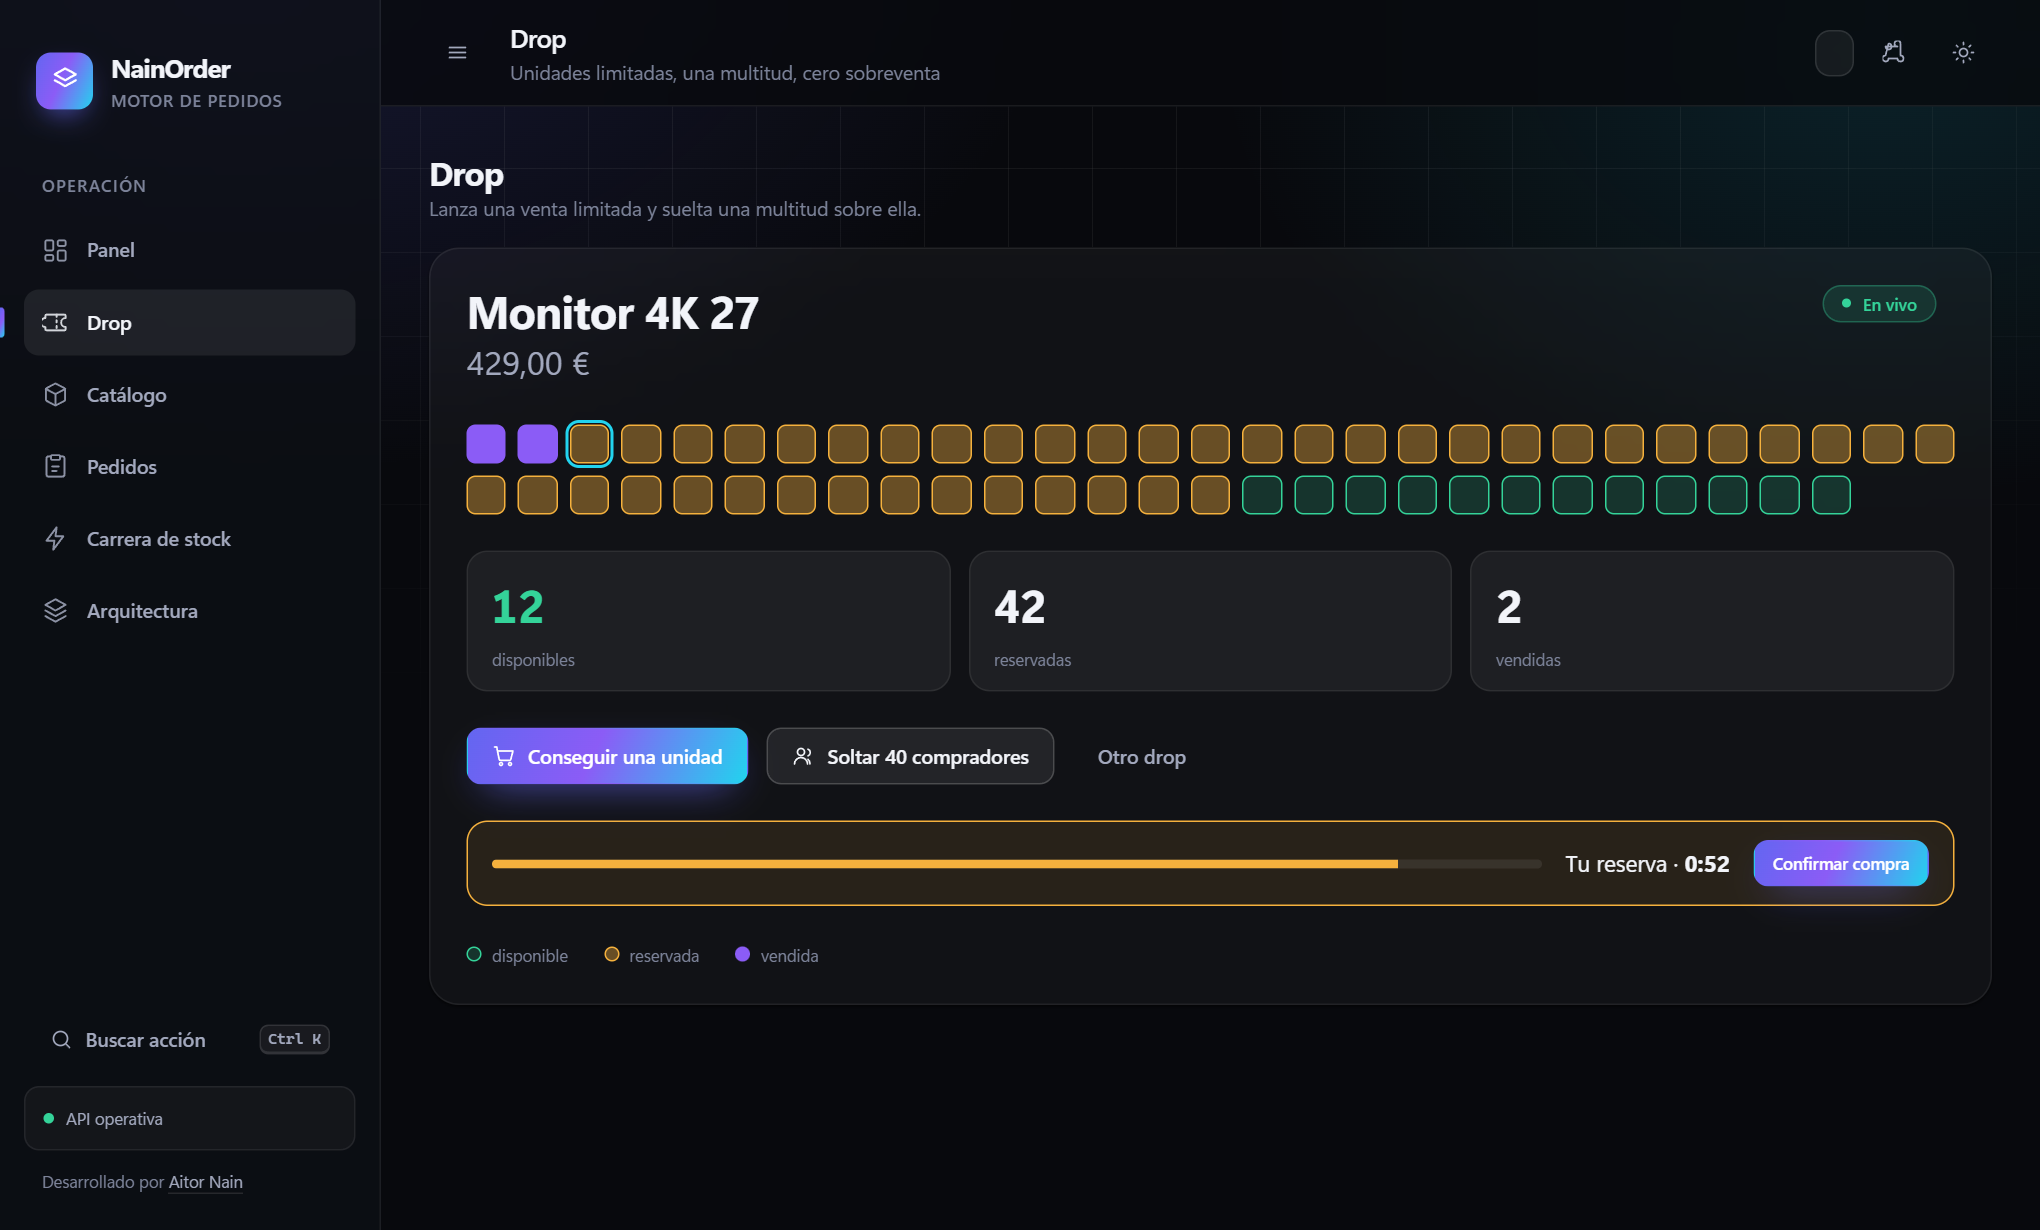
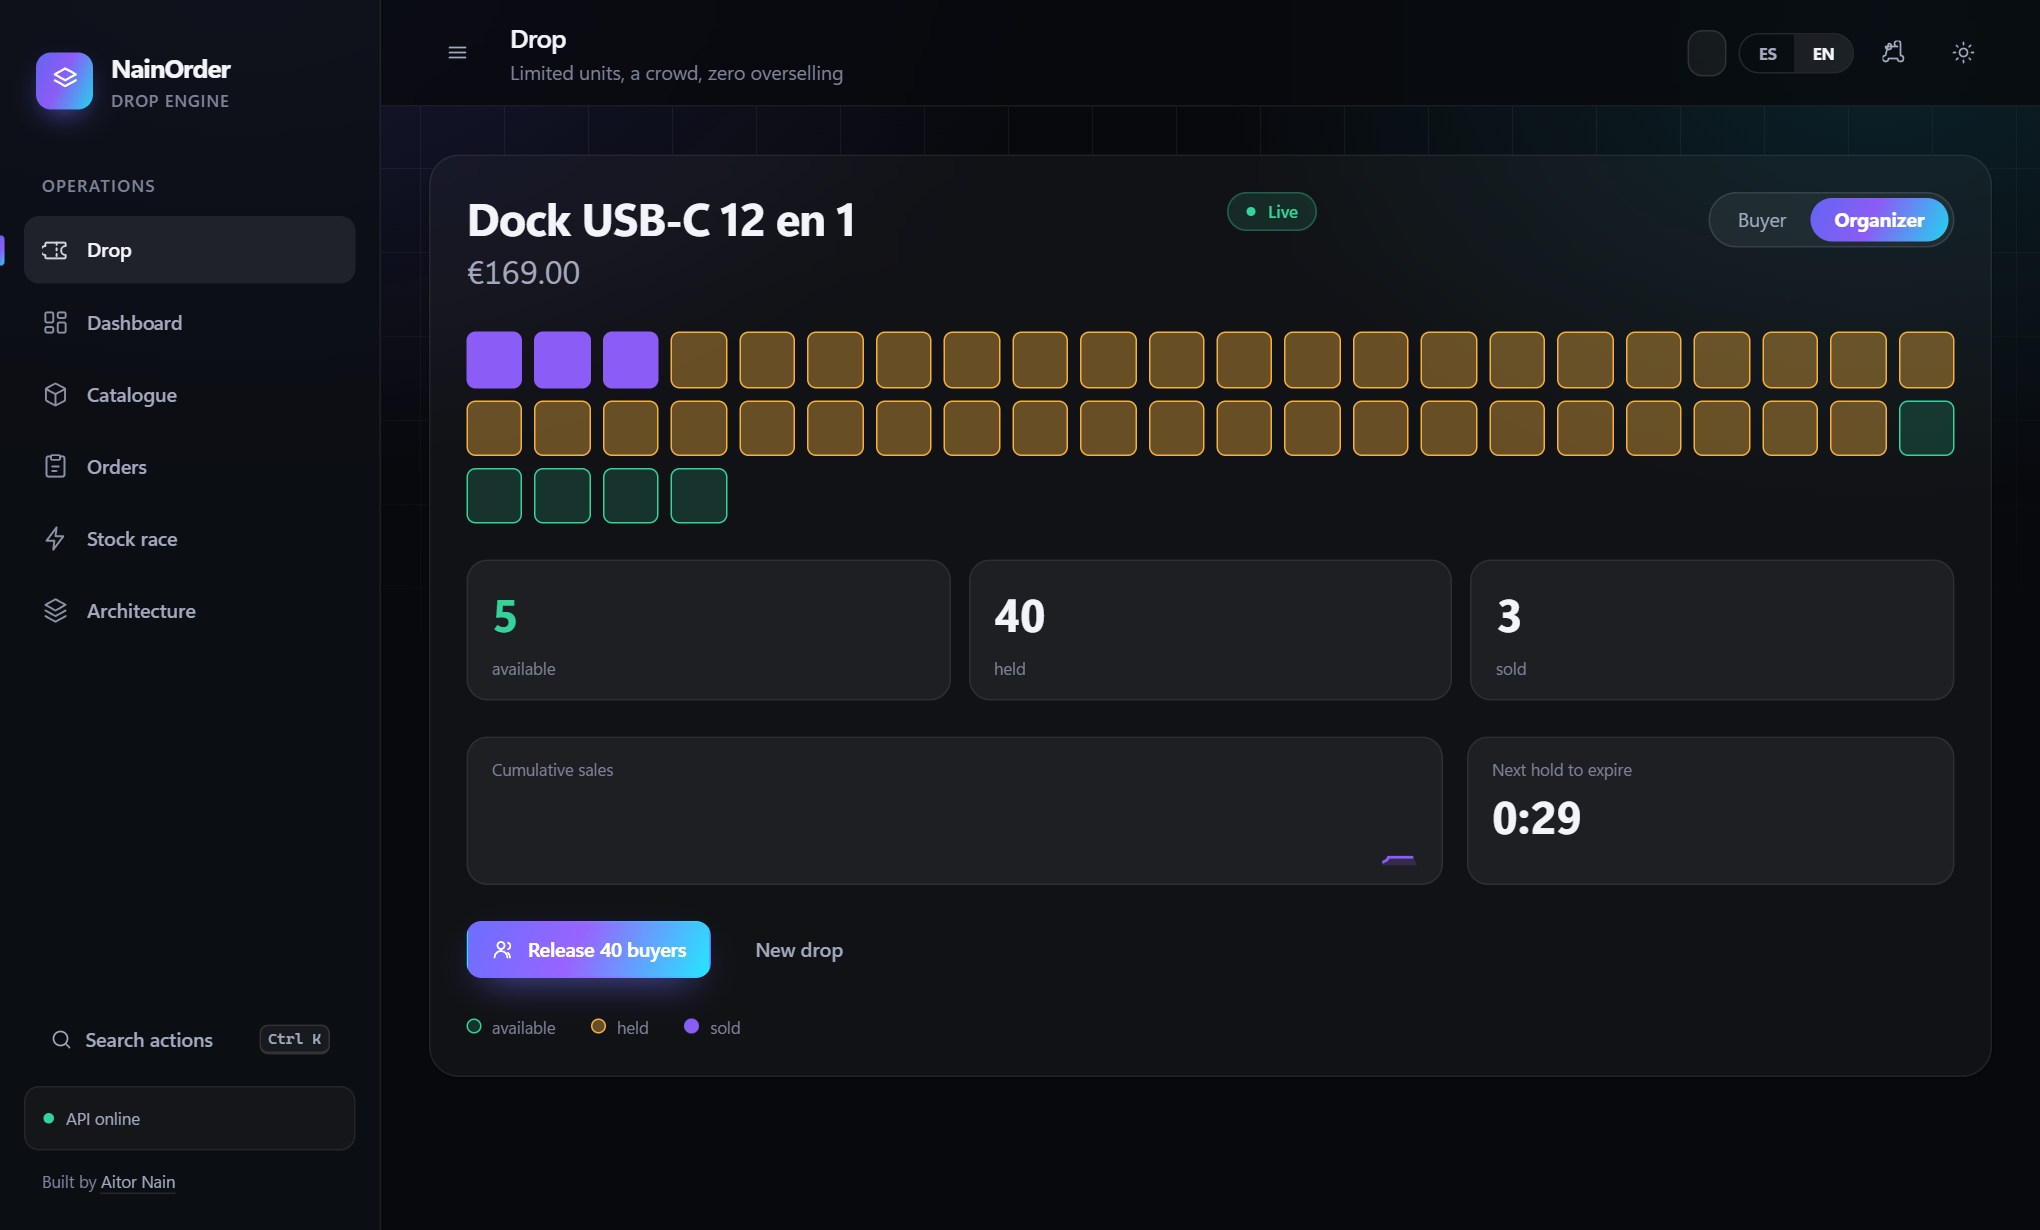
docs: add spec 003 and show the drop story in the README
Spec 003 (drop experience) records the owner's interview decisions and
its tasks. The charter now allows Spanish and English. README gains the
animated story, an organizer capture and English screenshots;
requirements, traceability and changelog cover REQ-095 and REQ-097 and
list the visual requirements as a known gap without browser tests.

diff --git a/docs/50-traceability.md b/docs/50-traceability.md
@@ -1,6 +1,6 @@
 # Traceability
 
-**Status:** Active · verified against a green run of `dotnet test NainOrder.slnx -c Release` (110/110 tests)
+**Status:** Active · verified against a green run of `dotnet test NainOrder.slnx -c Release` (116/116 tests)
 
 Every requirement in [10-requirements.md](10-requirements.md) and the test that demonstrates it.
 A requirement with no test is not done, whatever the code says.
@@ -17,6 +17,7 @@ Test suites:
 | `Api.OrderAggregateConcurrencyProbe` | Concurrency, aggregate | Multi-context concurrent aggregate mutations and optimistic concurrency conflict enforcement |
 | `Domain.DropTests` | Example-based + property-based | The drop aggregate with an explicit clock: holds, expiry, limits, the held-plus-sold invariant |
 | `Api.DropFlowTests` | Integration, concurrent | Drops over HTTP with a hand-moved clock, a 40-buyer crowd and UTC serialisation |
+| `Api.I18nParityTests` | Contract | Both panel languages define the same keys and placeholders |
 | `Api.StockRaceTests` | Integration, concurrent | The on-demand race: many buyers, few units, verdict from persisted stock |
 | `Api.GlobalExceptionHandlerTests` | Contract/Unit | RFC 7807 error translation and production 500 detail sanitization |
 
@@ -91,6 +92,13 @@ Test suites:
 | REQ-086 | `DropTests.An_unconfirmed_hold_returns_its_units_when_its_window_ends`; `DropFlowTests.An_unconfirmed_hold_expires_and_returns_its_units` |
 | REQ-088 | `DropTests.A_buyer_cannot_exceed_the_per_buyer_limit_across_holds`, `Expired_units_do_not_count_against_the_buyer_limit`; `DropFlowTests.A_buyer_over_the_limit_is_rejected_with_409` |
 
+## Drop experience
+
+| Requirement | Test |
+| :--- | :--- |
+| REQ-095 | `I18nParityTests.Spanish_and_English_define_exactly_the_same_keys`, `No_string_is_empty`, `Placeholders_match_between_languages` |
+| REQ-097 | `DropTests.The_next_expiry_is_the_soonest_live_hold_and_null_when_none_is_live`; `DropFlowTests.A_drop_reports_when_its_next_hold_expires` |
+
 ## HTTP contract
 
 | Requirement | Test |
@@ -112,4 +120,10 @@ Test suites:
 
 ## Gaps
 
-None. Every requirement declared in [10-requirements.md](10-requirements.md) is covered by an automated test passing in the Release suite.
+Every requirement declared in [10-requirements.md](10-requirements.md) is covered by an automated test passing in the Release suite.
+
+One known gap, deliberately outside that file: the visual behaviour of the panel in
+[specs/003-drop-experience](../specs/003-drop-experience/spec.md) (REQ-090 to REQ-094, REQ-096:
+landing story, role lenses, language selector, reduced motion). It was verified by hand in a browser
+against the real API and the in-browser engine, in both languages, with no console errors or missing
+translation keys; there is no browser-level test yet (task T-056).

diff --git a/specs/003-drop-experience/spec.md b/specs/003-drop-experience/spec.md
@@ -1,0 +1,40 @@
+# 003 — Drop experience
+
+**Status:** Approved direction by the owner (interview of 2026-10-20). Requirements below are drafts until each has its test.
+
+## Goal
+
+A shop owner or a recruiter opens the app and understands within ten seconds what it does and why it
+matters, without reading: the product explains itself through motion and the result.
+
+## Decisions taken in the interview
+
+| Question | Answer |
+| :--- | :--- |
+| Who must understand it fast | A shop owner or client (recruiters benefit too) |
+| First piece to build | An animated landing for the drop |
+| Roles a visitor can try | Both, one click apart: buyer and organizer |
+| Language of the public panel | ES and EN with a selector |
+
+## Requirements (EARS)
+
+- **REQ-090** — When the panel opens on the Drop view with no drop selected, the system shall play a short wordless story — a crowd arrives, units are held, an unconfirmed hold expires, units are sold — and offer one action per role.
+- **REQ-091** — Where the visitor chooses the buyer role, the panel shall show only what a buyer needs: the countdown, one action, and their own hold.
+- **REQ-092** — Where the visitor chooses the organizer role, the panel shall show the drop's units, the sales rhythm and the holds about to expire, and shall let the organizer release a simulated crowd.
+- **REQ-093** — The panel shall let the visitor switch between buyer and organizer on the same drop without losing it.
+- **REQ-094** — The panel shall offer Spanish and English, remember the choice, and default to the browser's language.
+- **REQ-095** — Every user-visible string shall exist in both languages: a string missing from one dictionary is a build failure.
+- **REQ-096** — Where the visitor prefers reduced motion, the landing story shall show its end state without animation.
+- **REQ-097** — The system shall report, with each drop, when its soonest live hold ends, or nothing when no hold is live. (Added during implementation: REQ-092's "holds about to expire" needs it from the server, since the panel must not compute it.)
+
+## Status of verification
+
+REQ-095 and REQ-097 have automated tests. REQ-090 to REQ-094 and REQ-096 are visual and were
+verified by hand in a browser (real API and in-browser engine, both languages); a browser-level
+test is task T-056.
+
+## Non-goals
+
+- Translating API error messages: they are machine-readable (`code`) and the panel maps the codes it needs.
+- Right-to-left languages.
+- A marketing site separate from the panel.

diff --git a/README.md b/README.md
@@ -11,16 +11,21 @@
 [![ci](https://github.com/Nain9Dev/NainOrder/actions/workflows/ci.yml/badge.svg)](https://github.com/Nain9Dev/NainOrder/actions/workflows/ci.yml)
 [![CodeQL](https://github.com/Nain9Dev/NainOrder/actions/workflows/codeql.yml/badge.svg)](https://github.com/Nain9Dev/NainOrder/actions/workflows/codeql.yml)
 ![.NET 10](https://img.shields.io/badge/.NET-10-512BD4)
-![Tests](https://img.shields.io/badge/tests-110%20passing-2ea44f)
+![Tests](https://img.shields.io/badge/tests-116%20passing-2ea44f)
 ![Client dependencies](https://img.shields.io/badge/client%20dependencies-0-22d3ee)
 [![Live demo](https://img.shields.io/badge/live%20demo-order.naindev.com-8b5cf6)](https://order.naindev.com/)
 
 <p align="center">
-  <img src="docs/assets/drop-live.png" alt="A live drop: 56 units, 2 sold, 42 held by a crowd of 40 buyers, 12 still available" width="92%">
+  <img src="docs/assets/drop-story.gif" alt="Animation: a crowd arrives, each unit is held, unconfirmed holds return, everything sells once" width="72%">
 </p>
 
-> **56 units. 40 buyers released at once.** Each unit is *available*, *held* for 60 seconds, or *sold*.
-> Hold it and don't confirm: it goes back to the crowd. Press **Soltar 40 compradores** and watch.
+<p align="center">
+  <img src="docs/assets/drop-live.png" alt="The organizer view of a live drop: 48 units, 3 sold, 40 held by a crowd of 40 buyers, 5 still available" width="92%">
+</p>
+
+> **48 units. 40 buyers released at once.** Each unit is *available*, *held* for 30 seconds, or *sold*.
+> Hold it and don't confirm: it goes back to the crowd. Try it as a **buyer** or an **organizer**, in
+> Spanish or English: open the app and press **Release 40 buyers**.
 
 ---
 
@@ -88,11 +93,11 @@ git clone https://github.com/Nain9Dev/NainOrder.git
 cd NainOrder/NainOrder.Api && dotnet run
 ```
 
-Open <http://localhost:8170> → **Drop** → *Lanzar drop*. Also there: [`/swagger`](http://localhost:8170/swagger)
+Open <http://localhost:8170> → **Try as a buyer** or **Try as an organizer**. Also there: [`/swagger`](http://localhost:8170/swagger)
 and `/health`. No database to install: SQLite creates itself.
 
 ```bash
-dotnet test NainOrder.slnx -c Release          # 110 tests
+dotnet test NainOrder.slnx -c Release          # 116 tests
 docker build -t nainorder . && docker run -p 8080:8080 nainorder
 ```
 

diff --git a/specs/003-drop-experience/tasks.md b/specs/003-drop-experience/tasks.md
@@ -1,0 +1,18 @@
+# 003 — Tasks
+
+| ID | Task | Label | Done when |
+| :--- | :--- | :--- | :--- |
+| T-050 | i18n core, JSON dictionaries, selector; parity test first | `[A]` | ✅ `I18nParityTests` green (REQ-094, REQ-095) |
+| T-051 | Translate the shell and the Drop, Race and Architecture views | `[A]` | ✅ No hardcoded user-visible string in those files |
+| T-052 | Animated landing story | `[A]` | ✅ Plays in a browser; static end state under reduced motion (REQ-090, REQ-096) |
+| T-053 | Buyer and organizer lenses | `[A]` | ✅ Verified in a browser on the real API (REQ-091 to REQ-093, REQ-097) |
+| T-054 | Translate Dashboard, Catalogue, Orders and the order panel | `[A]` | ✅ Every route in both languages: no console errors, no missing keys |
+| T-055 | README capture (animated) | `[A]` | ✅ `docs/assets/drop-story.gif` and a live-drop capture |
+| T-056 | Browser-level tests for the visual requirements | `[M]` | Playwright decision (a dev dependency) approved by the owner; REQ-090 to REQ-094, REQ-096 move into `docs/10-requirements.md` |
+| T-057 | Animated request map in the Architecture view (a purchase travelling through the layers) | `[A]` | The four layers light up in order for a real request |
+
+## Handoff
+
+Done: i18n (ES/EN, 352 keys per language, parity test), landing story, buyer and organizer lenses, `nextHoldExpiresAt`.
+Not done: T-056 needs the owner's call on adding Playwright; T-057 is the next visual piece. Open drawers
+and modals do not re-render on a language switch, only on the next open.

diff --git a/specs/003-drop-experience/plan.md b/specs/003-drop-experience/plan.md
@@ -1,0 +1,32 @@
+# 003 — Plan
+
+## i18n
+
+- Dictionaries as static JSON, `wwwroot/assets/i18n/es.json` and `en.json`, flat dotted keys. JSON
+  (not JS) so a plain .NET test can read both and assert identical key sets (REQ-095) without a
+  Node toolchain.
+- `i18n.js`: `t(key, params)`, `getLocale()`, `setLocale()`; loads both files once before the first
+  render (works on the static host); persists in `localStorage`; default from `navigator.language`.
+- Selector in the top bar. Changing it re-renders the current view.
+- Missing key: `t` returns the key and logs once, so a gap is visible rather than silent.
+
+## Landing story
+
+A single SVG scene driven by CSS animation, no library: crowd dots stream in, a grid of units fills
+with *held*, one hold drains and returns, others turn *sold*. Under 20 s, looped, no text beyond the
+two role buttons. `prefers-reduced-motion` renders the final frame (REQ-096).
+
+## Roles
+
+One drop, two lenses over the same polled state:
+
+- **Buyer**: product, big countdown or "live", one action, own hold with its bar.
+- **Organizer**: unit grid, sales-rate sparkline computed from polled `sold` deltas, list of holds
+  expiring soon, crowd button. The sparkline plots figures the API returned; it applies no rule.
+
+A tab control switches lens without reloading the drop (REQ-093).
+
+## Verification
+
+- `I18nParityTests` reads both JSON files and asserts equal key sets and non-empty values.
+- Browser check of both locales and both roles against the real API and the in-browser engine.

diff --git a/docs/10-requirements.md b/docs/10-requirements.md
@@ -80,6 +80,17 @@ enters this table when it is implemented and tested.
 | REQ-086 | When a drop's units are all sold or held, the system shall report it `SoldOut`; when expired holds free units again, it shall report it `Live`. |
 | REQ-088 | If a buyer exceeds the per-buyer limit across holds and orders of one drop, then the system shall reject the request with `409 buyer_limit_reached`. |
 
+## Drop experience
+
+From [specs/003-drop-experience](../specs/003-drop-experience/spec.md). The visual requirements
+(REQ-090 to REQ-094, REQ-096) live in that spec until browser-level tests exist; only what is
+verified by an automated test is listed here.
+
+| ID | Requirement |
+| :--- | :--- |
+| REQ-095 | Every user-visible string of the panel shall exist in both Spanish and English with the same placeholders, and a missing or empty one shall fail the build. |
+| REQ-097 | The system shall report, with each drop, when its soonest live hold ends, or nothing when no hold is live. |
+
 ## HTTP contract
 
 | ID | Requirement |

diff --git a/docs/90-changelog.md b/docs/90-changelog.md
@@ -8,6 +8,10 @@ Notable changes. Format loosely follows Keep a Changelog; dates come from git.
 
 ### Added
 
+- Drop experience (`specs/003-drop-experience`): an animated, wordless landing for the drop, a
+  buyer view and an organizer view of the same drop, and a Spanish/English selector covering the
+  whole panel (dictionaries in `assets/i18n`, parity enforced by `I18nParityTests`). Drops report
+  `nextHoldExpiresAt`.
 - Drops (phase 1 of `specs/002-drops`, ADR-0008): a fixed number of units sold to a crowd through
   short expiring holds, with `/api/drops` endpoints, a `Drop` panel view with a crowd simulator, and
   an in-browser engine for the static demo. REQ-080 to REQ-086 and REQ-088.

diff --git a/docs/00-charter.md b/docs/00-charter.md
@@ -33,7 +33,9 @@ These are deliberately out of scope. Their absence is a decision, not an oversig
 - **Multi-warehouse or partial fulfilment.** Stock is a single global counter per product.
 - **Order history / event sourcing.** Timestamps per transition are kept; the full audit trail is
   not modelled.
-- **Internationalisation.** The panel's copy is Spanish; the API is locale-neutral.
+- **Locales beyond Spanish and English.** The panel offers ES and EN, chosen by the owner on
+  2026-10-20 ([specs/003-drop-experience](../specs/003-drop-experience/spec.md)); the API is
+  locale-neutral and its errors are machine-readable codes.
 
 ## Constraints
 
